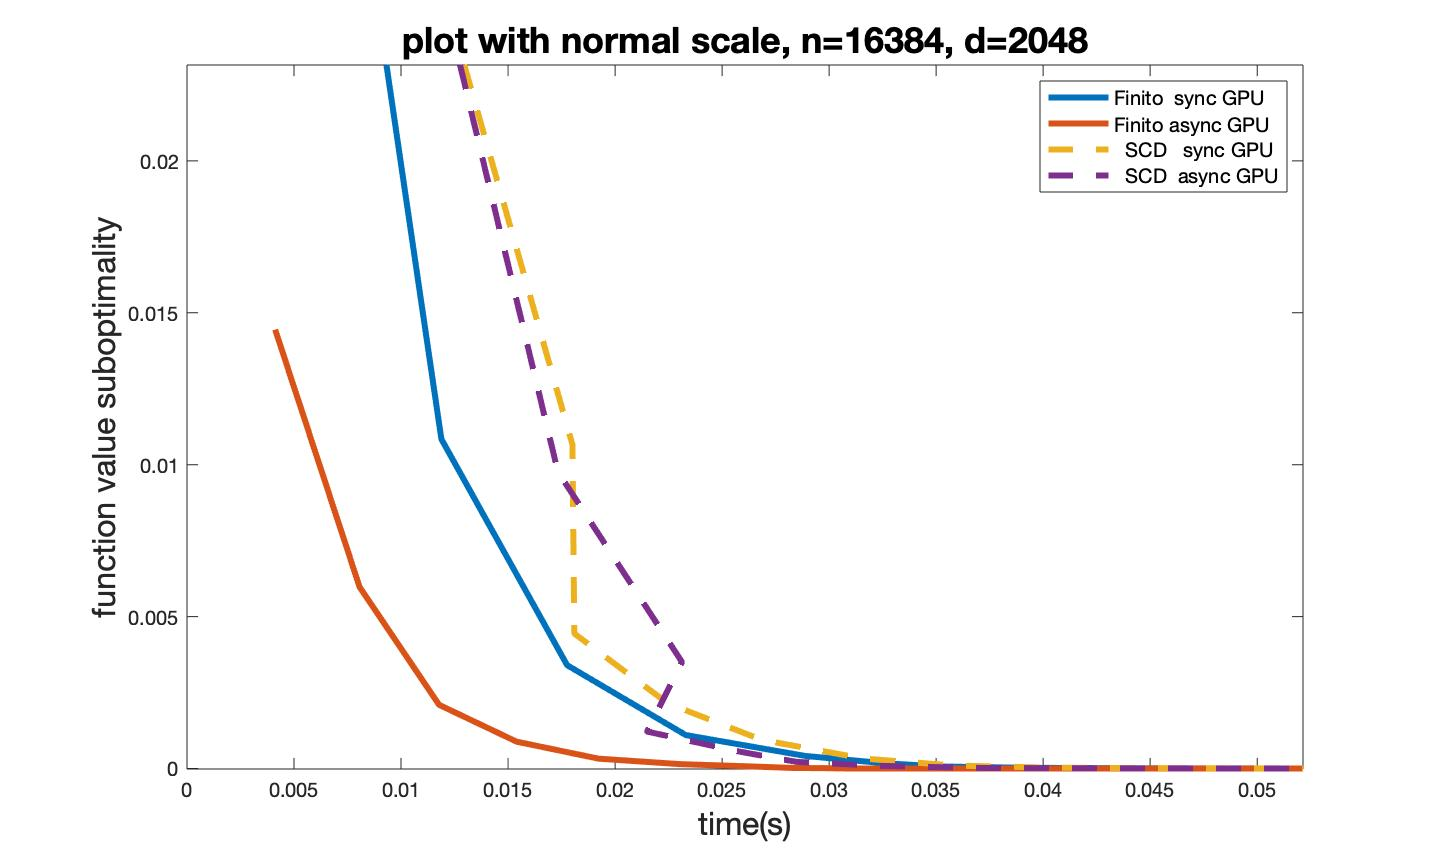
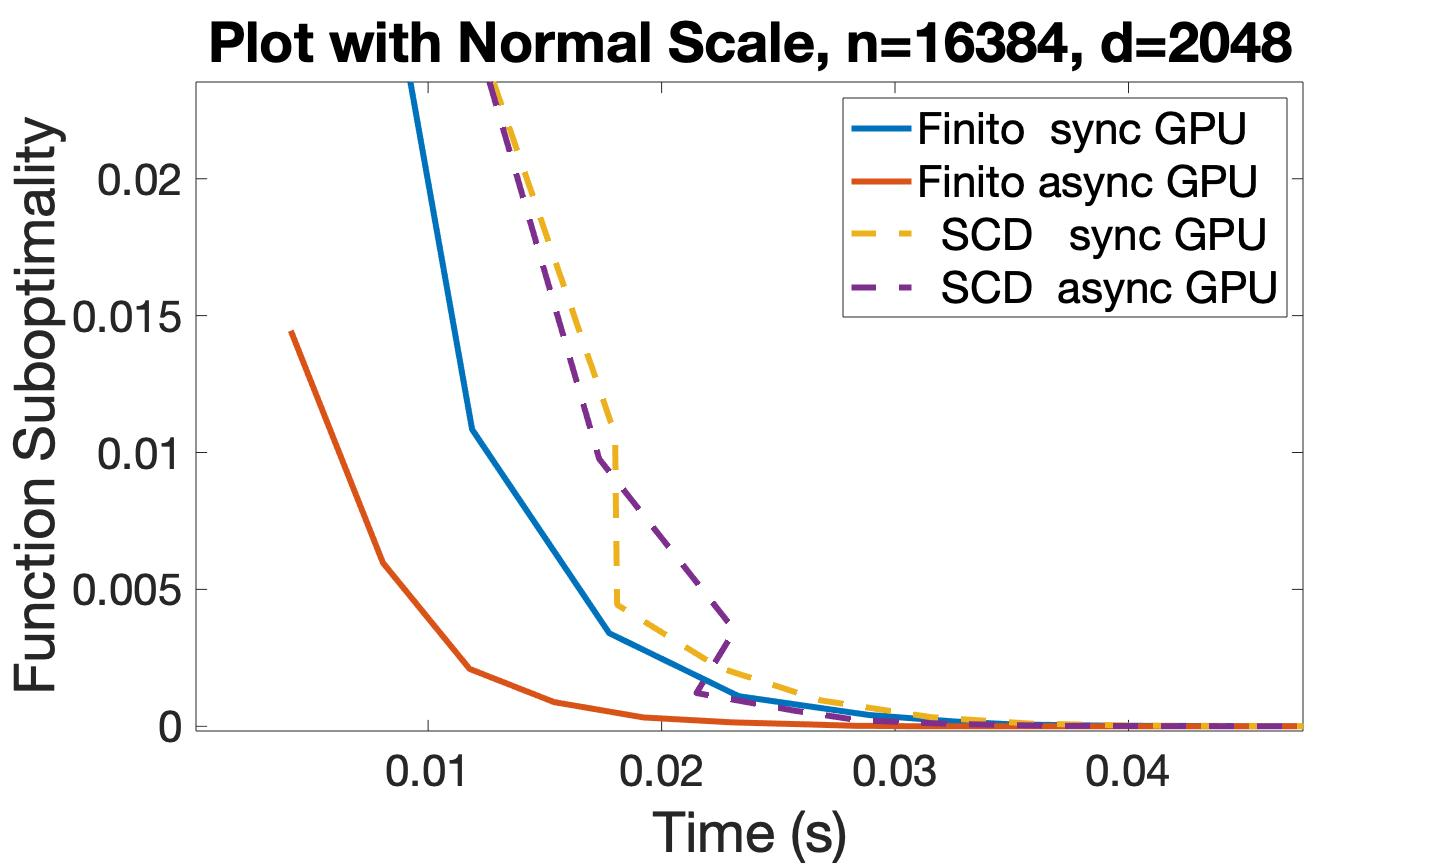
Update

diff --git a/data_analysis/convergence_plot.m b/data_analysis/convergence_plot.m
@@ -1,16 +1,15 @@
-clear;
-load('records.server.mat') % algorithm, n, dim, alpha, s, epoch, p, blocksize, times, function values
+%clear;
+%load('records.server.mat') % algorithm, n, dim, alpha, s, epoch, p, blocksize, times, function values
 %% server
 % Cutoff value to exclude outliers
 % 0.432648679303562 8192  8192
 % 0.531309702952792 16384 2048
 % 0.195167411551043 2048  16384
-para_n = 2048;
-para_d = 16384;
-cutoff = 0.195167411551043;
+para_n = 8192;
+para_d = 8192;
+cutoff = 0.432648679303562;
 [idxs] = return_index(records,1e-6, cutoff, para_n, para_d);   
 h = figure;
-
 for i = idxs(5:6)
     if i > 0 
         plot(records{i,11},(records{i,12} - cutoff),'DisplayName', ...
@@ -27,14 +26,15 @@ for i = idxs(7:8)
         hold on
     end
 end
-legend('fontsize', 10);
-xlabel("time(s)", 'fontsize',16)
-ylabel("function value suboptimality", 'fontsize',16)
-title(sprintf("plot with normal scale, n=%d, d=%d",para_n, para_d),'fontsize',18);
-fig  = gcf;
+legend('fontsize', 22);
+ax = gca;
+ax.FontSize = 22; 
+xlabel("Time (s)", 'fontsize',28);
+ylabel("Function Suboptimality", 'fontsize',28);
+title(sprintf("Plot with Normal Scale, n=%d, d=%d",para_n, para_d),'fontsize',28);
+fig = gcf;
 fig.Units = 'inches';
 fig.Position = [0 0 10 6];
-
 
 % [idxs, shortestTimes] = return_index(records,1e-6, 0.195167411551043, 2048,16384);
 % for ctr = 1:8
